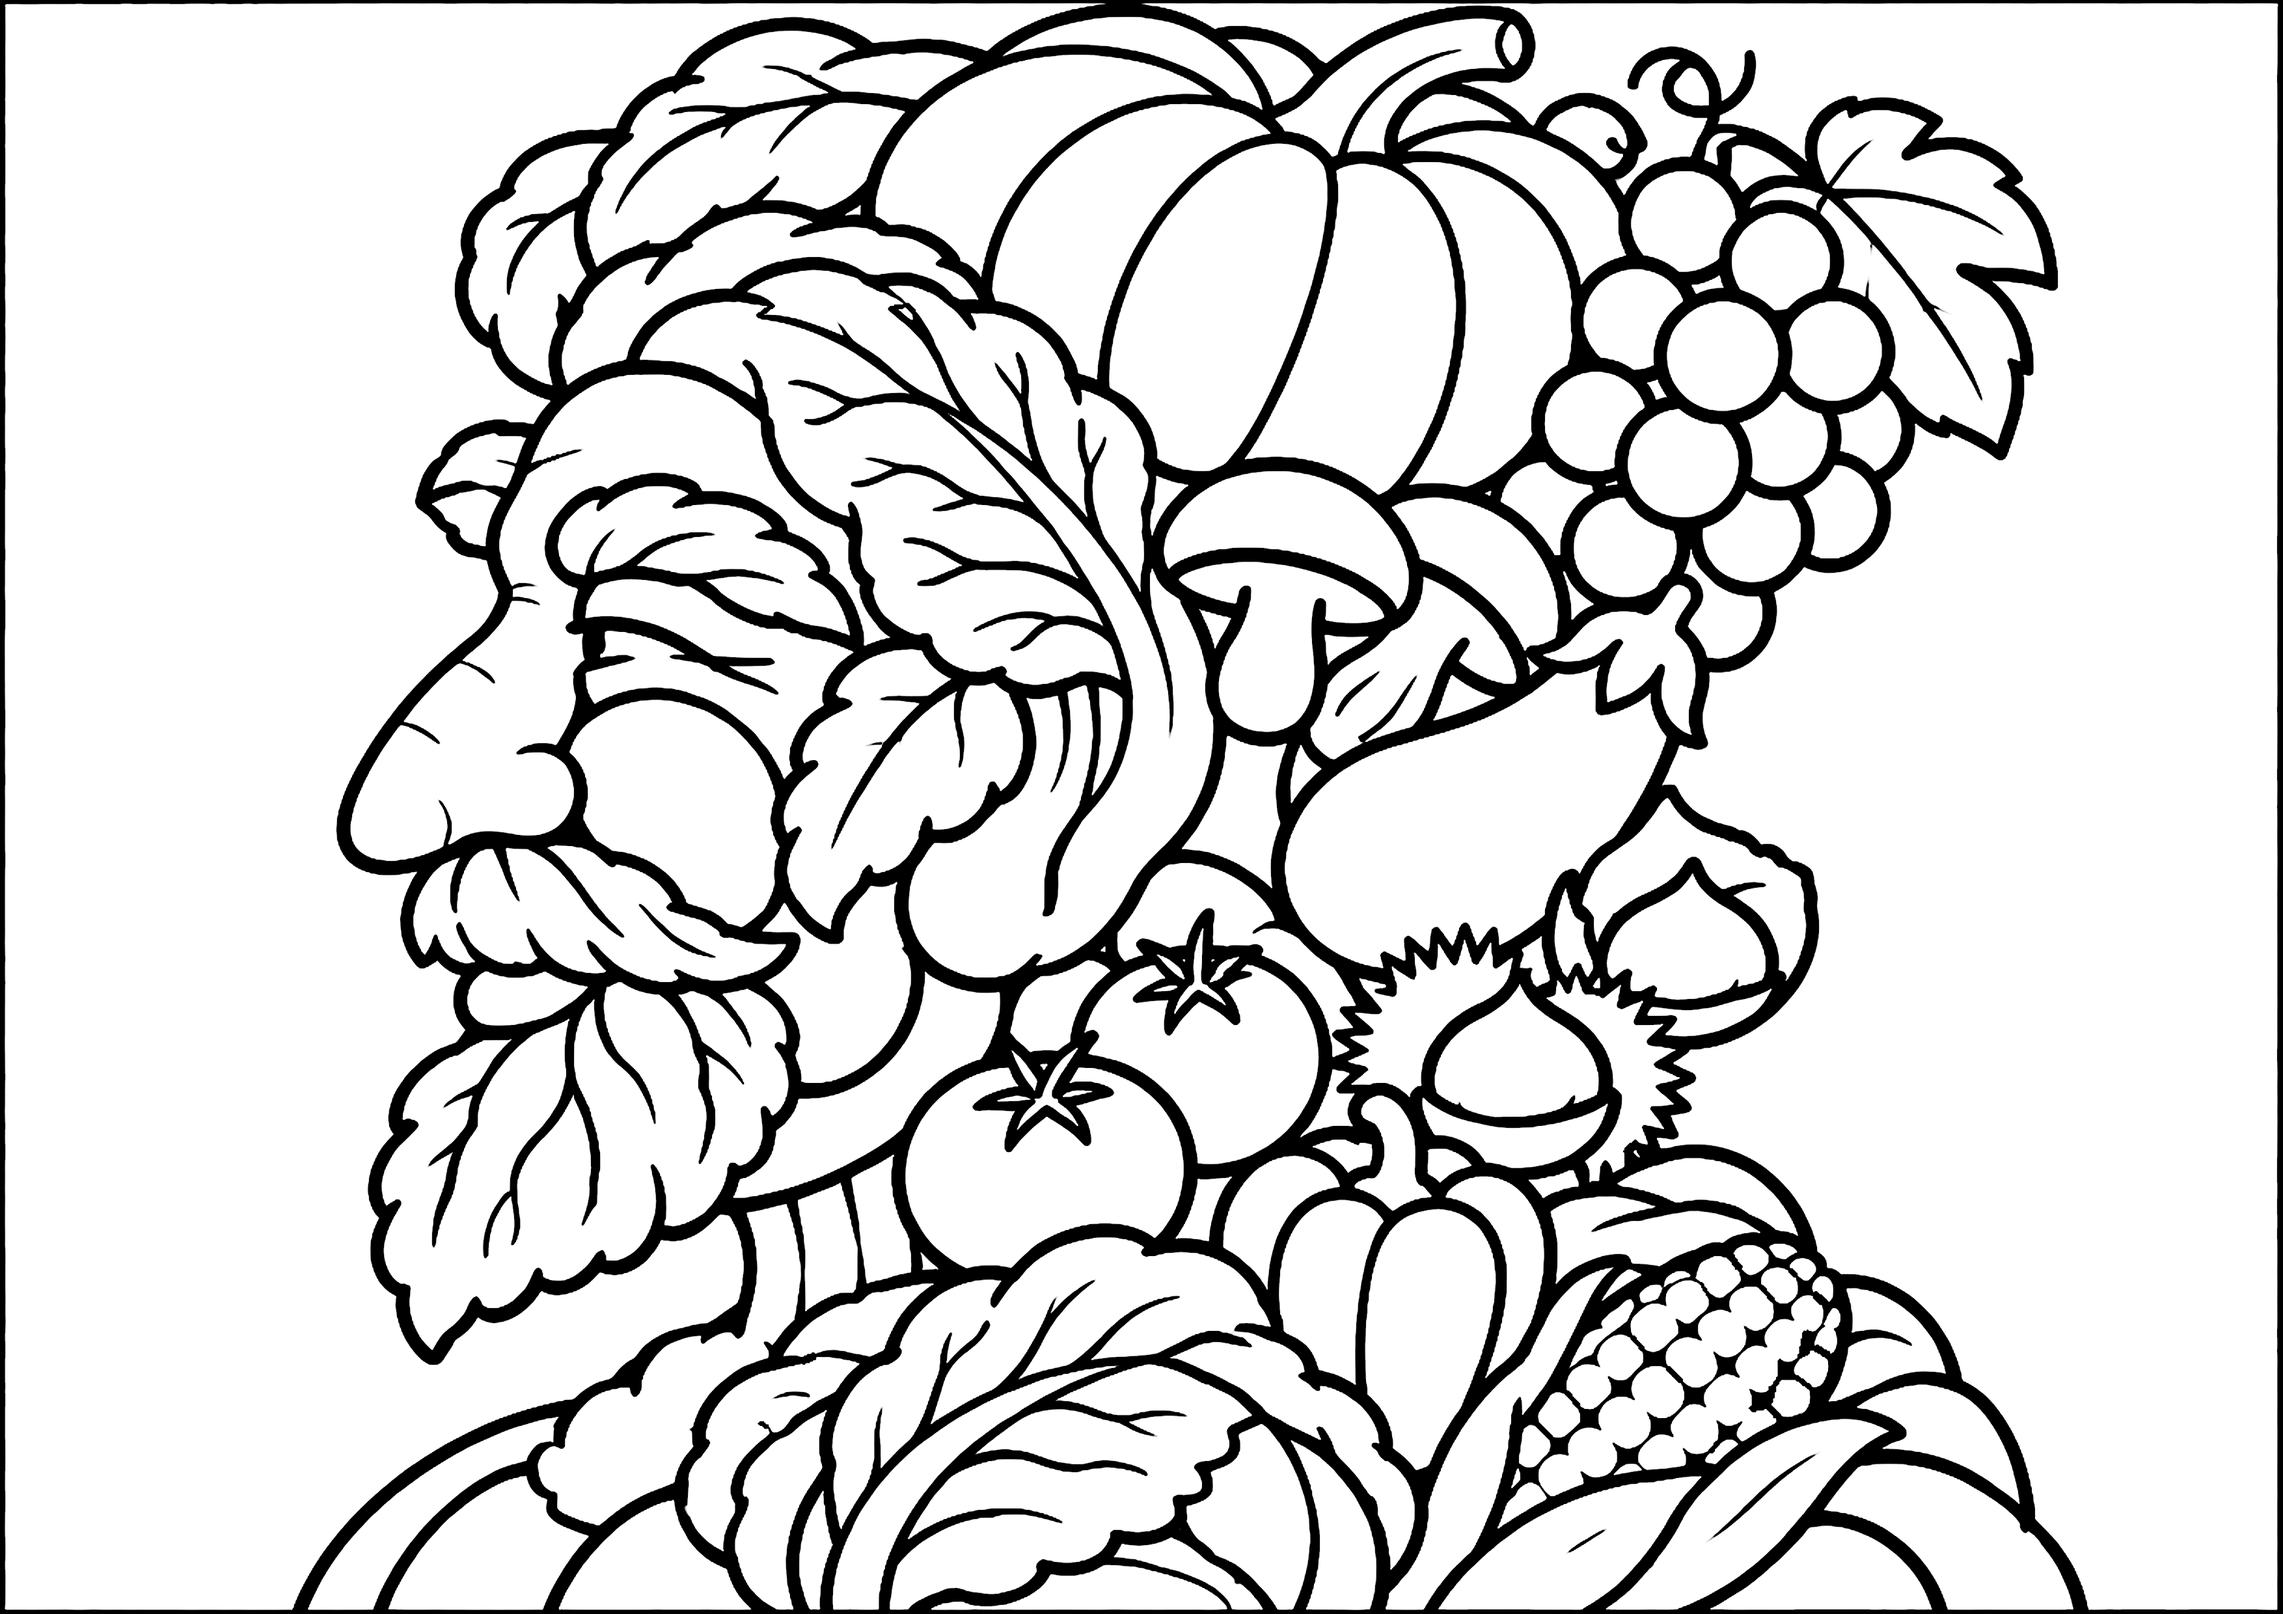
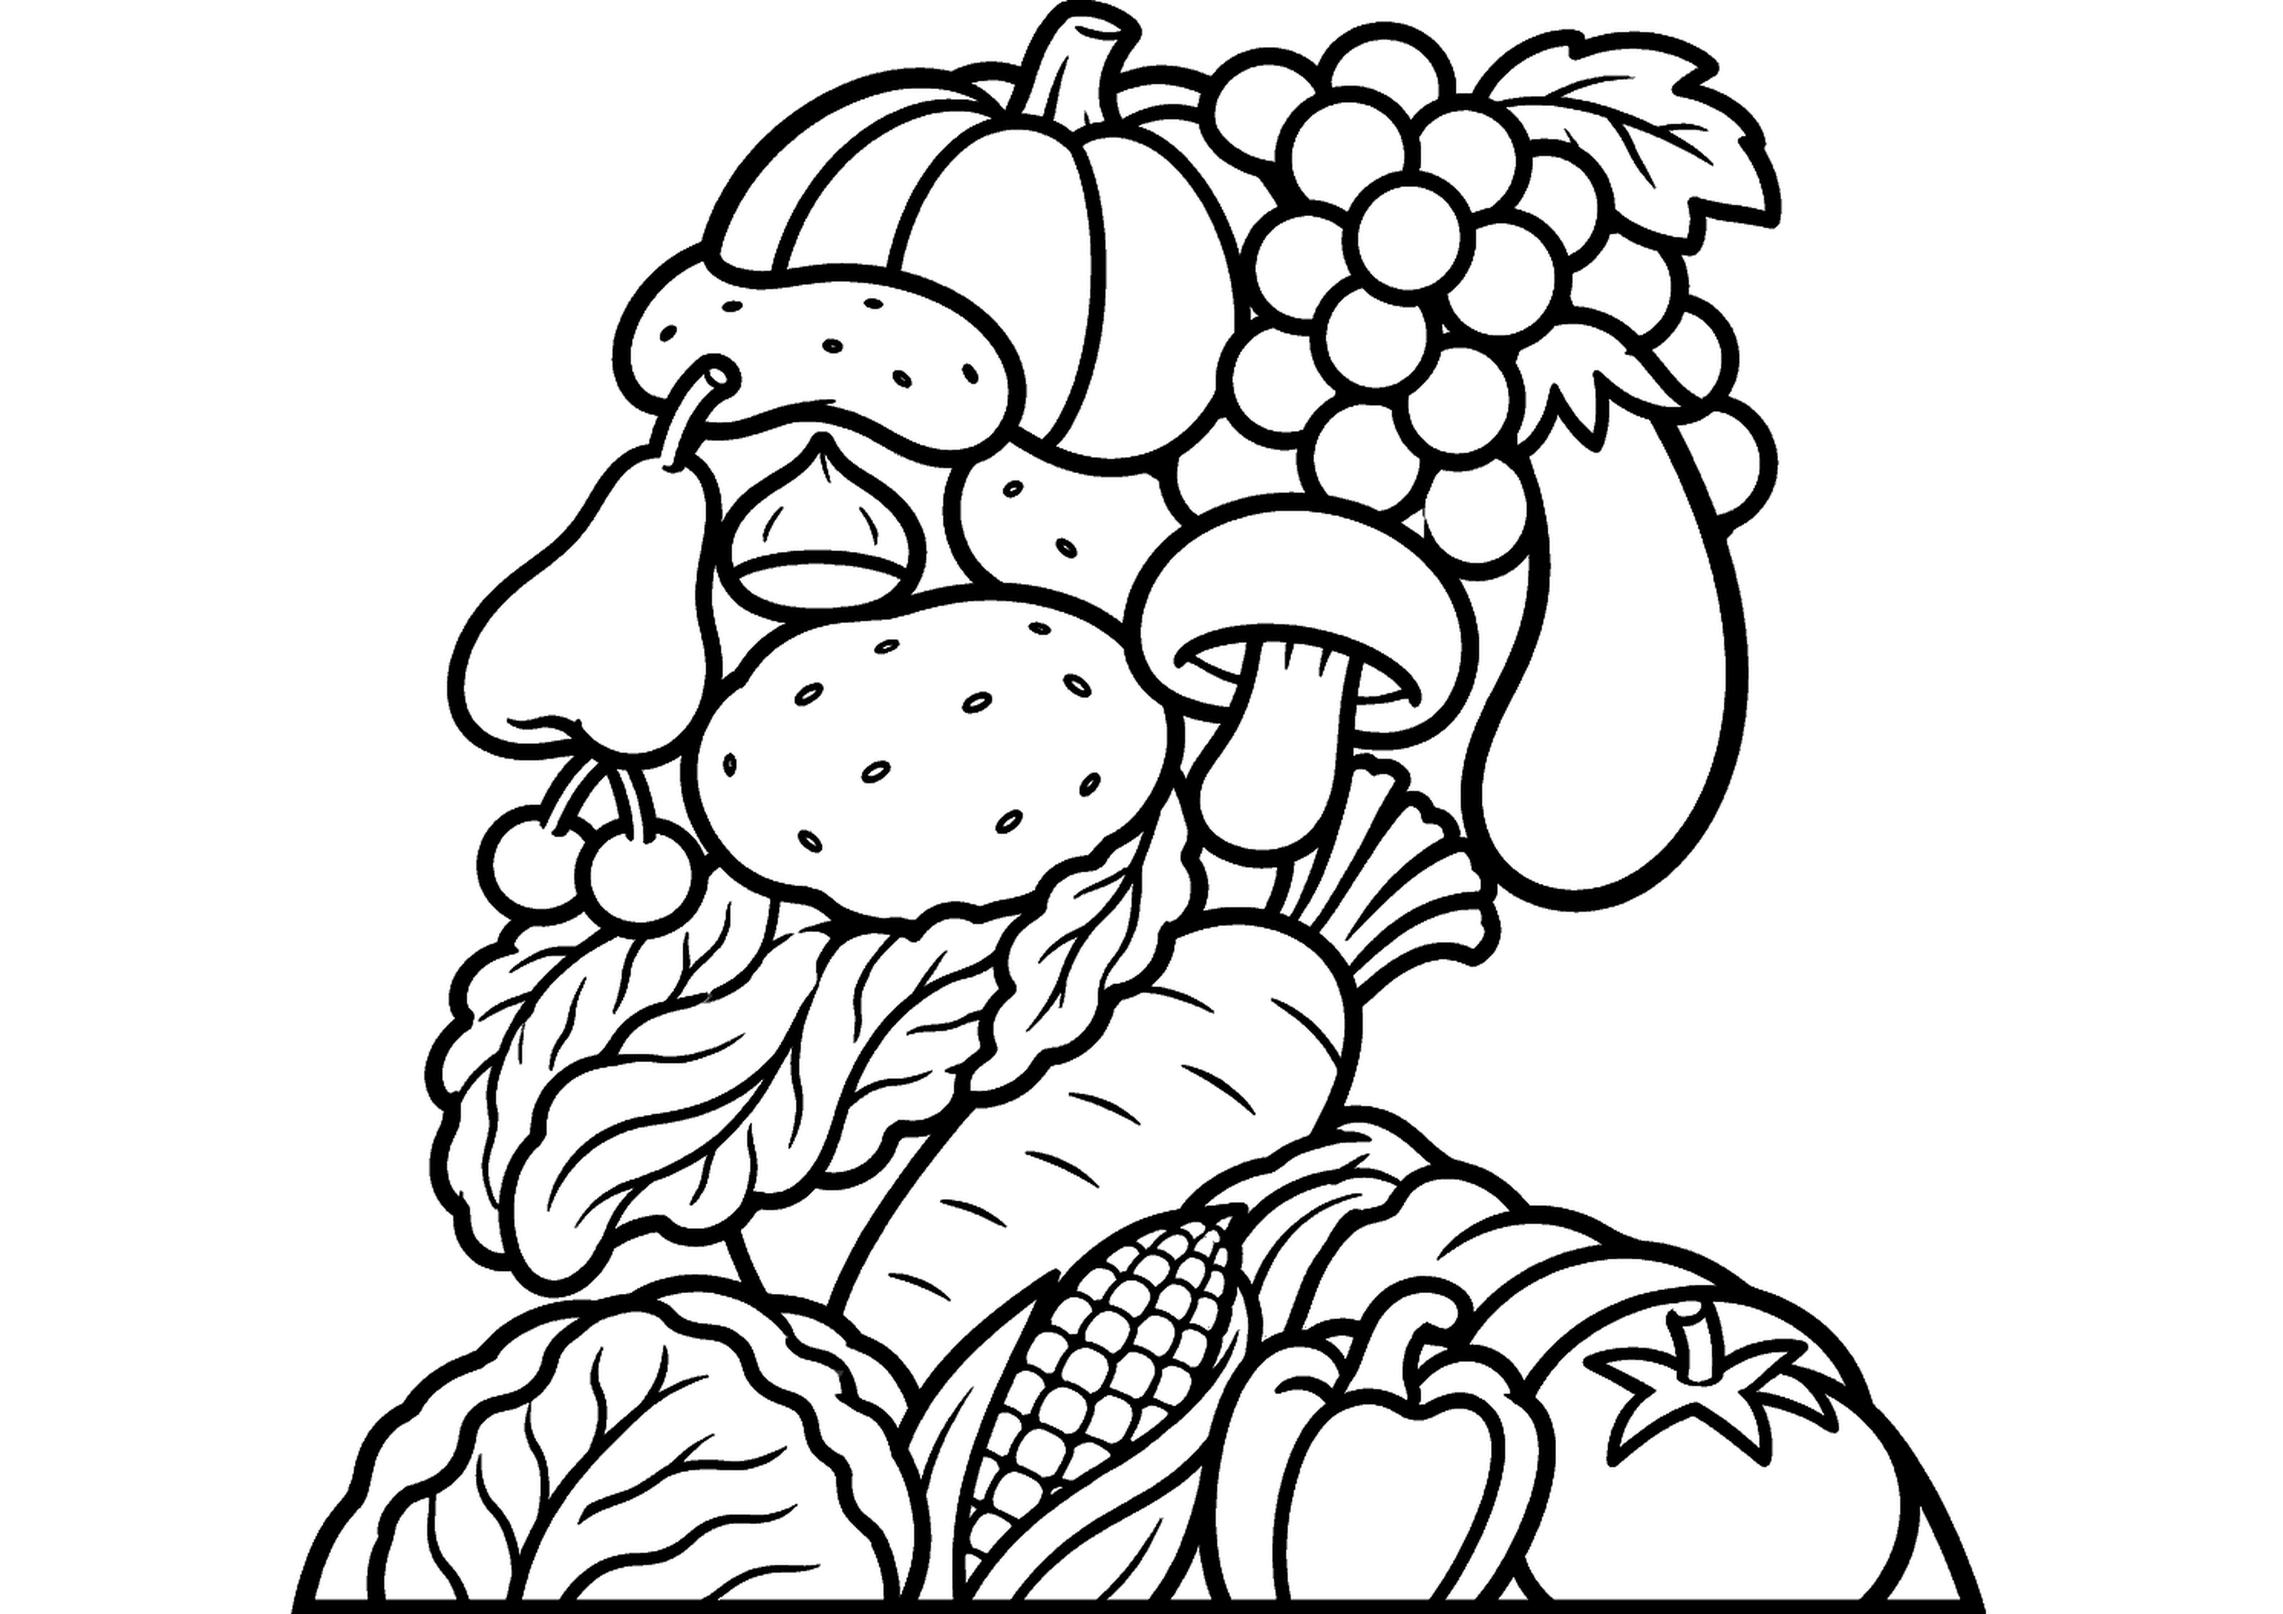
塗り絵「野菜でできた横顔」を顔まで全部野菜の絵に差し替え(色見本も更新)
Claude-Session: https://claude.ai/code/session_01EPRbSUGNKytqNjh7YBrAJL

Changed region(s): [[0.0, 0.0, 1.0, 1.0], [0.1243, 0.4968, 0.1554, 0.5278], [0.0, 0.0, 0.0311, 0.031]]

diff --git a/data.js b/data.js
@@ -1516,7 +1516,7 @@ window.NURIE_LIST = [
   { season: "通年", genre: "人物", title: "切手から飛び出す景色", diff: "中級", file: "kitte_tobidasu_keshiki_chu.png", sample: "kitte_tobidasu_keshiki_chu_sample.jpg", added: "2026-11", date: "2026-11-17", desc: "虫めがねでのぞくと、富士山と帆かけ舟の切手から景色が飛び出してくる", v: "1794919381906" },
   { season: "通年", genre: "その他", title: "籠に盛った手まり", diff: "中級", file: "kago_temari_chu.png", sample: "kago_temari_chu_sample.jpg", added: "2026-11", date: "2026-11-17", desc: "麻の葉や菊、梅など、いろいろな柄の手まりを竹かごに盛って", v: "1794919381907" },
   { season: "通年", genre: "その他", title: "裁縫箱の小さな町", diff: "上級", file: "saihoubako_machi_jo.png", sample: "saihoubako_machi_jo_sample.jpg", added: "2026-11", date: "2026-11-17", desc: "糸巻きの家や指ぬきの塔が並ぶ、裁縫箱の中の小さな町", v: "1794919381908" },
-  { season: "通年", genre: "食べ物", title: "野菜でできた横顔", diff: "中級", file: "yasai_yokogao_chu.png", sample: "yasai_yokogao_chu_sample.jpg", added: "2026-11", date: "2026-11-17", desc: "かぼちゃやぶどう、トマトにとうもろこし。野菜と果物でできた横顔", v: "1794919381909" },
+  { season: "通年", genre: "食べ物", title: "野菜でできた横顔", diff: "中級", file: "yasai_yokogao_chu.png", sample: "yasai_yokogao_chu_sample.jpg", added: "2026-11", date: "2026-11-17", desc: "洋梨の鼻に栗の目、じゃがいものほっぺ。顔まで全部野菜と果物でできた横顔", v: "1794956797233" },
   { season: "秋", genre: "人物", title: "落ち葉の着物の女性", diff: "中級", file: "ochiba_kimono_josei_chu.png", sample: "ochiba_kimono_josei_chu_sample.jpg", added: "2026-11", date: "2026-11-14", desc: "紅葉といちょうの柄の着物で、番傘をさして歩く女性", v: "1794663388450" },
   { season: "秋", genre: "風景", title: "茶室と露地の庭", diff: "上級", file: "chashitsu_roji_jo.png", sample: "chashitsu_roji_jo_sample.jpg", added: "2026-11", date: "2026-11-17", v: "1794924292138" },
   { season: "通年", genre: "風景", title: "大漁旗の漁船", diff: "上級", file: "tairyobata_gyosen_jo.png", sample: "tairyobata_gyosen_jo_sample.jpg", added: "2026-11", date: "2026-11-17", v: "1794924292138" },
